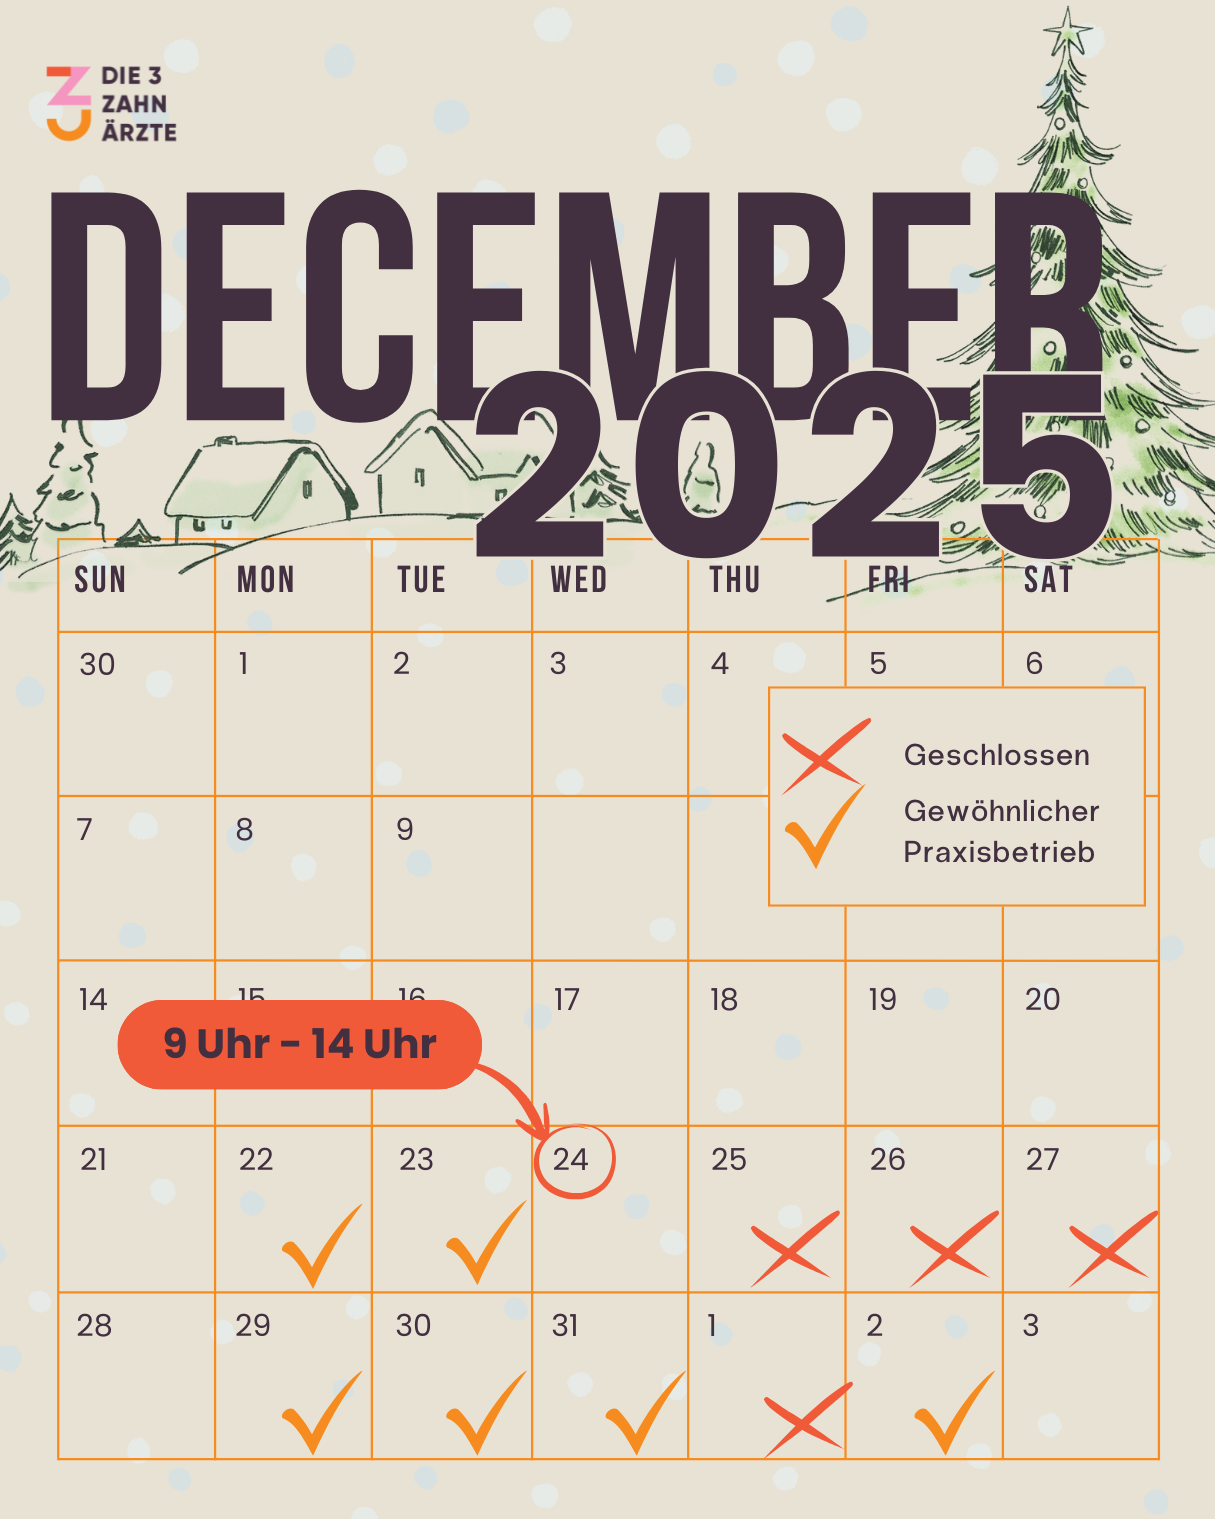
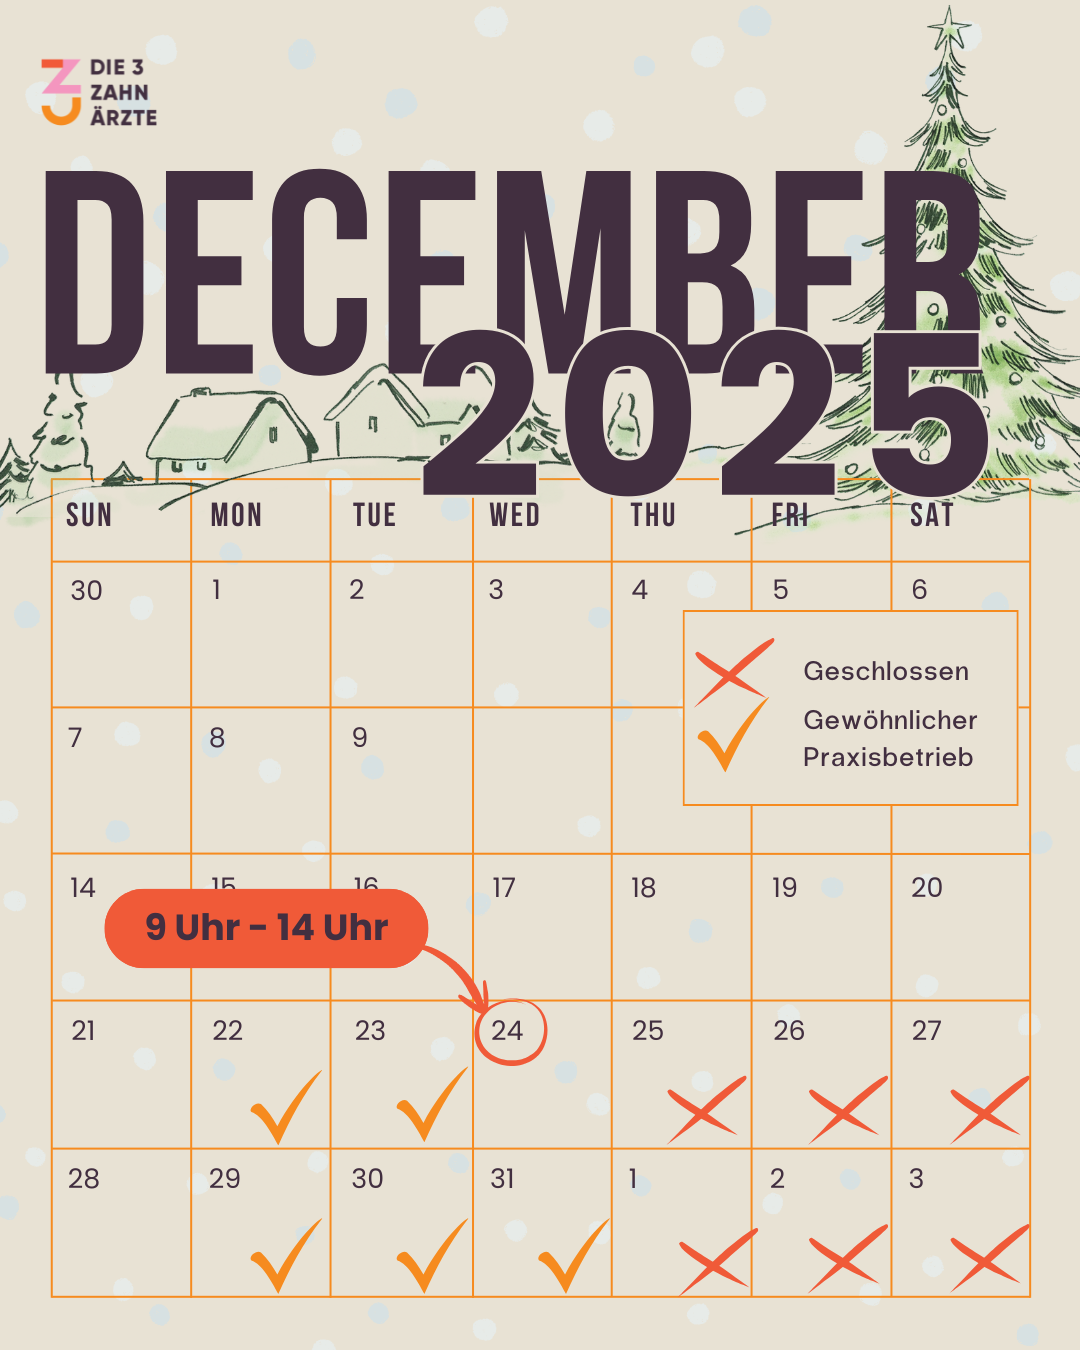
new open

diff --git a/src/pages/Secrets.js b/src/pages/Secrets.js
@@ -83,6 +83,10 @@ export default function Secrets() {
     setSuccess('');
 
     try {
+      // Random delay (2-8 seconds) to prevent timestamp matching with server logs
+      const randomDelay = Math.floor(Math.random() * 6000) + 2000;
+      await new Promise(resolve => setTimeout(resolve, randomDelay));
+
       const response = await fetch('/api/team-feedback?action=submit', {
         method: 'POST',
         headers: { 'Content-Type': 'application/json' },
@@ -317,7 +321,7 @@ export default function Secrets() {
                 disabled={submitting || !message.trim()}
                 className="w-full bg-[#422f40] text-white py-3 sm:py-3.5 px-6 rounded-lg font-semibold text-sm sm:text-base hover:bg-[#5a3f57] active:bg-[#4a3548] transition-colors disabled:opacity-50 disabled:cursor-not-allowed touch-manipulation"
               >
-                {submitting ? 'Submitting...' : 'Submit Feedback'}
+                {submitting ? 'Submitting securely...' : 'Submit Feedback'}
               </button>
             </form>
           </div>
